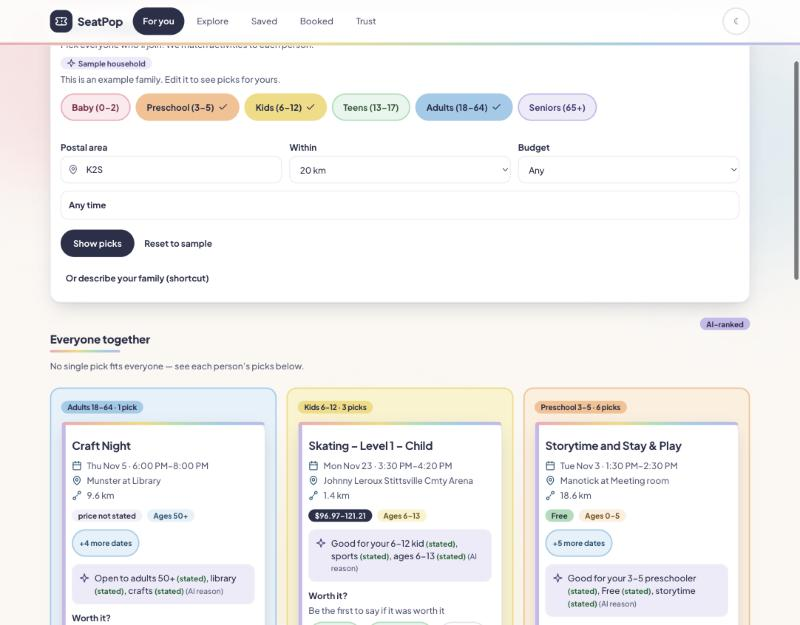
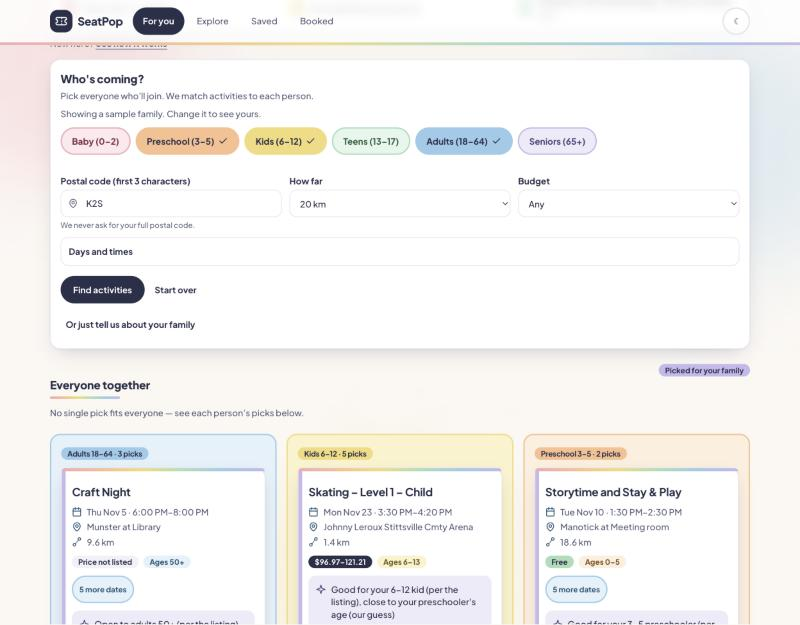
docs: refresh screenshots for launch copy

Changed region(s): [[0.0625, 0.0304, 0.9375, 1.0], [0.9688, 0.0912, 1.0, 0.456], [0.4375, 0.0304, 0.4688, 0.0608]]

diff --git a/README.md b/README.md
@@ -20,8 +20,8 @@ Your World"). Guest-first: results with no sign-up.
 ![For you, desktop](docs/screenshots/01-for-you.png)
 
 <p>
-  <img src="docs/screenshots/02-for-you-mobile.png" width="260" alt="Mobile: Everyone / per-member tabs">
-  <img src="docs/screenshots/02b-kids-tab-mobile.png" width="260" alt="Mobile: Kids tab with a pick">
+  <img src="docs/screenshots/02-for-you-mobile.png" width="260" alt="Mobile: Kids tab with a pick">
+  <img src="docs/screenshots/02b-preschool-tab-mobile.png" width="260" alt="Mobile: Preschool tab with a free pick">
 </p>
 
 ## Why it matters
@@ -128,8 +128,6 @@ cp .env.example .env   # fill in: SUPABASE_URL, SUPABASE_ANON_KEY, ...
 npx supabase db push   # linked project; applies supabase/migrations
 npm run dev --workspace @seatpop/web   # http://localhost:3000
 ```
-
-For worth-it votes, also set `VOTE_SALT` in `.env` (generate with `openssl rand -hex 32`).
 
 Without Supabase credentials the app still runs but shows
 not-configured states instead of data. Gates:
